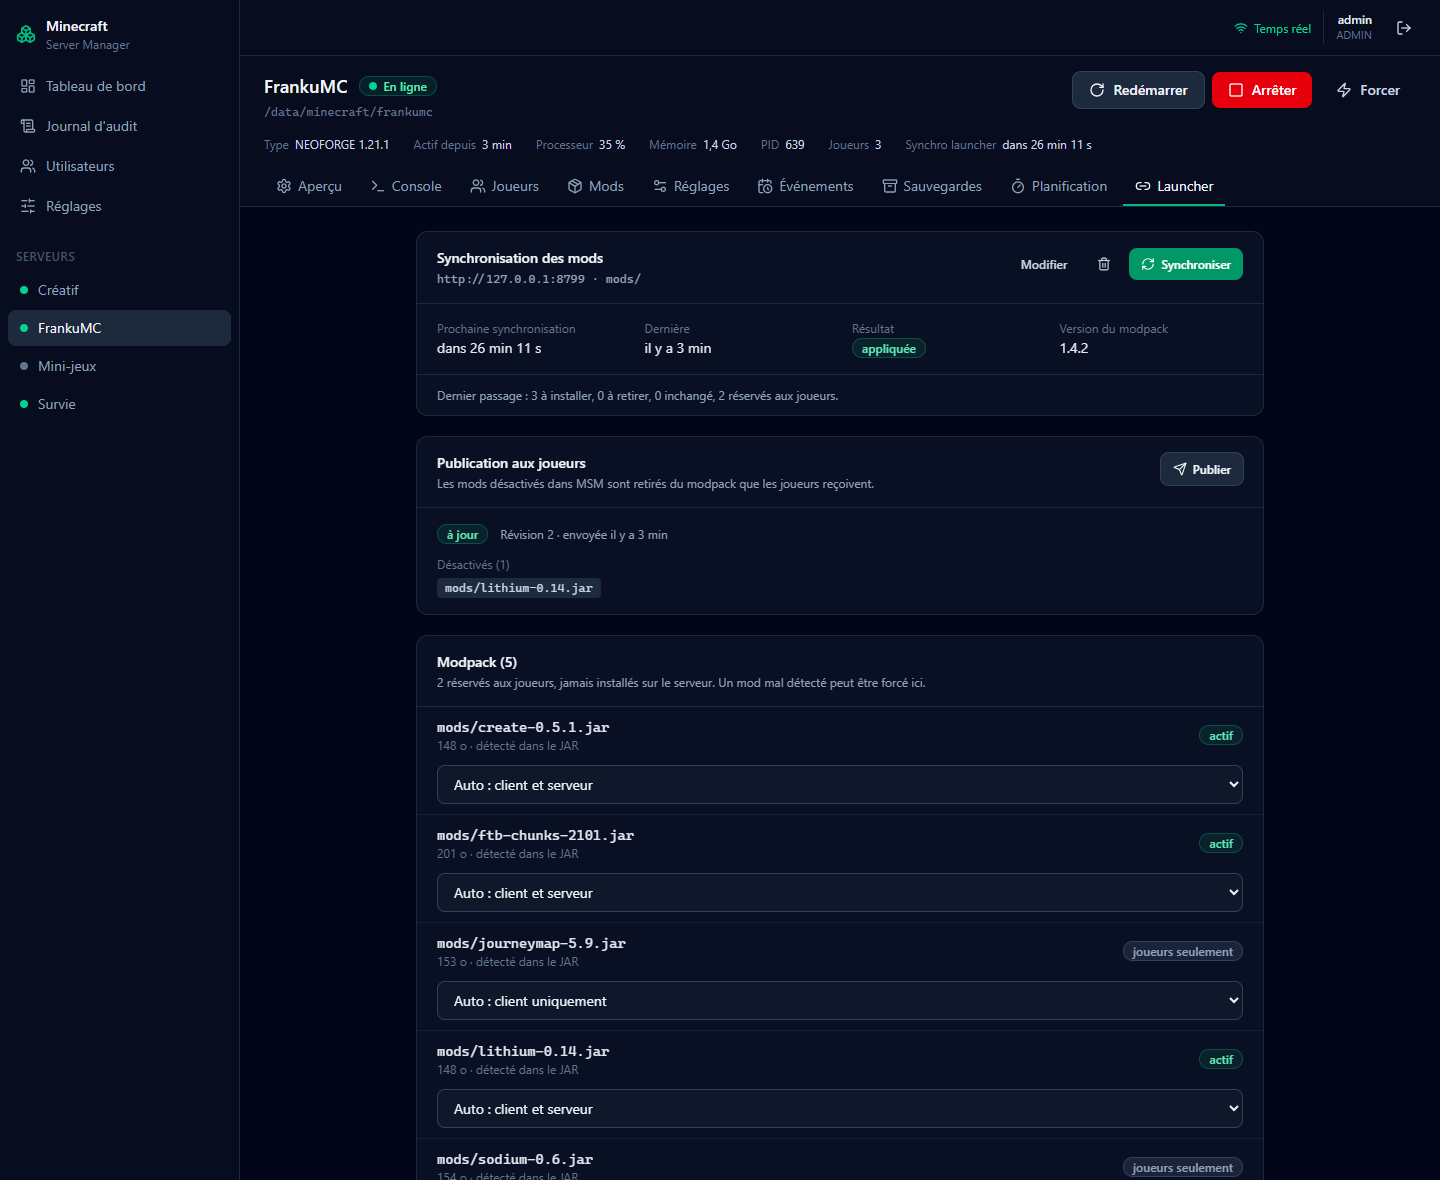
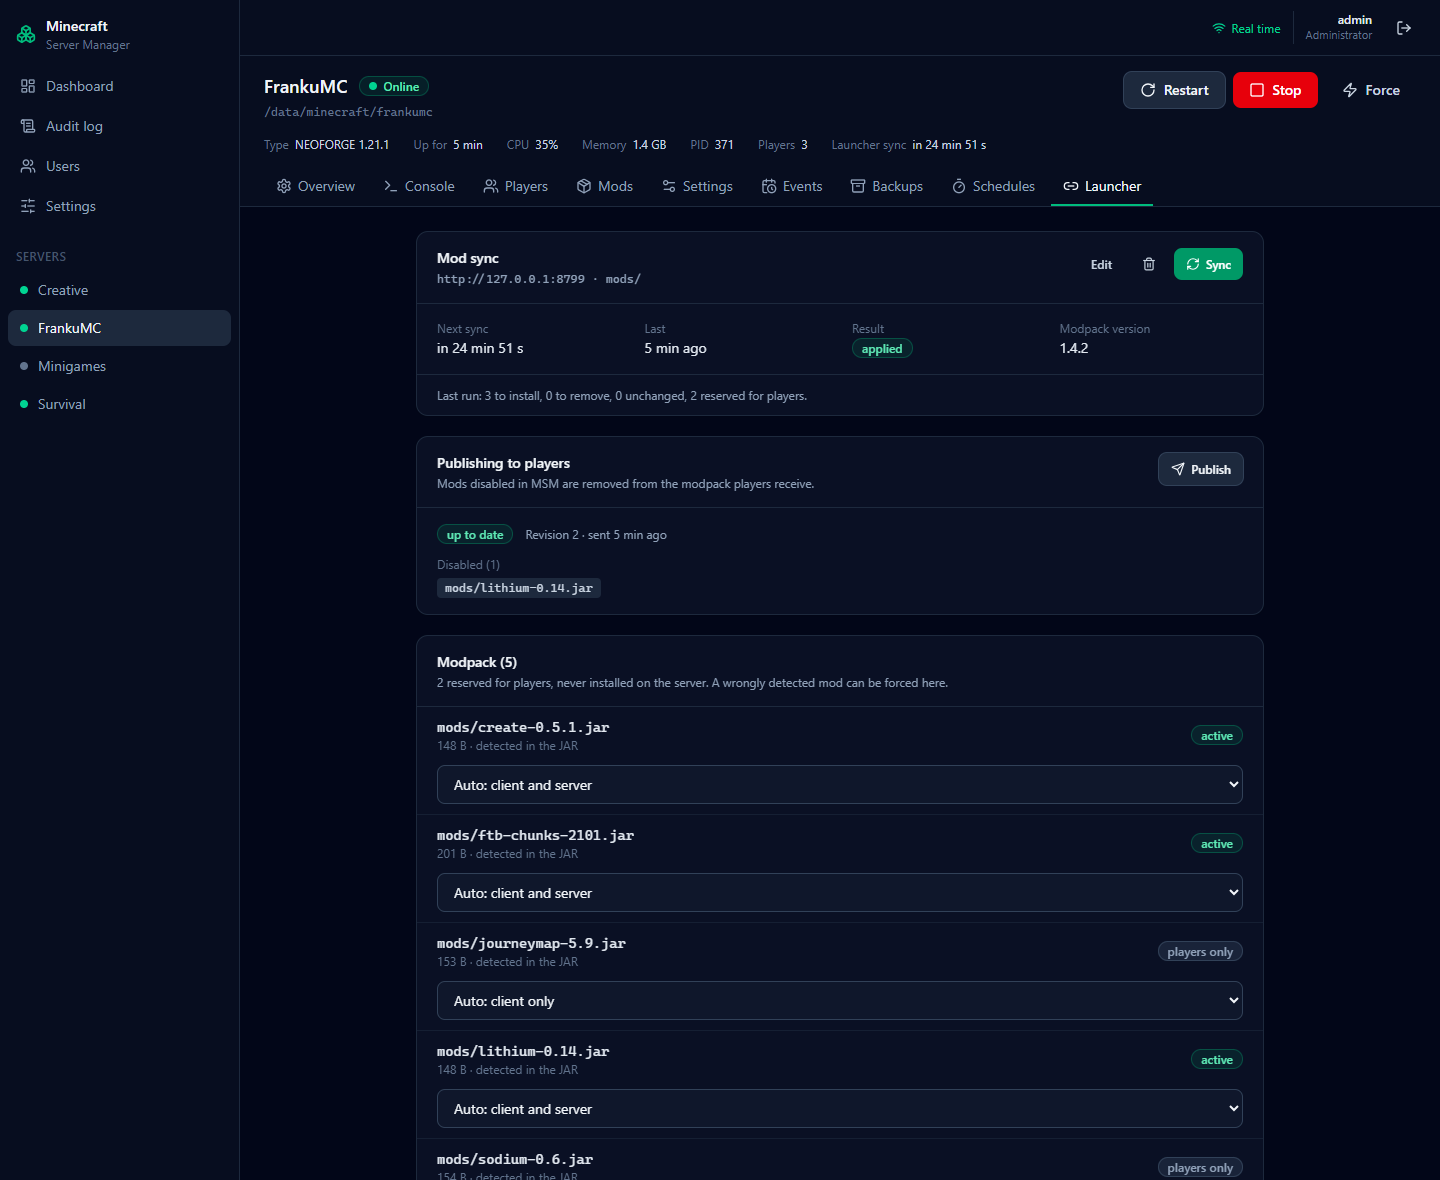
fix(i18n): test POSIX en anglais, dernières chaînes françaises, captures en anglais
- test_launchers : le test du script non exécutable (Linux uniquement,
  donc invisible sous Windows) attendait encore le message français.
- API : suppression d'un événement ou d'un fichier renvoie « deleted »
  comme les autres routes ; libellés de type et journal POSIX en anglais.
- README : captures d'écran refaites avec l'interface en anglais.

diff --git a/backend/tests/unit/test_launchers.py b/backend/tests/unit/test_launchers.py
@@ -138,7 +138,7 @@ class TestShellLauncherPosix:
         with pytest.raises(LaunchError) as excinfo:
             registry.build_spec("shell", context(server_dir, script_path="run.sh"))
 
-        assert "exécutable" in (excinfo.value.cause or "")
+        assert "not executable" in (excinfo.value.cause or "")
         assert excinfo.value.remediation and "chmod +x" in excinfo.value.remediation
 
     def test_executable_script_is_accepted(self, server_dir: Path) -> None:

diff --git a/backend/msm/api/v1/events.py b/backend/msm/api/v1/events.py
@@ -185,7 +185,7 @@ async def delete_event(event_id: int, access: ServerAccess, service: EventsDep) 
     event = await service.get_event(server, event_id)
     name = event.name
     await service.delete_event(server, event, context=context)
-    return {"status": "supprimé", "name": name}
+    return {"status": "deleted", "name": name}
 
 
 # --------------------------------------------------------------------------- #

diff --git a/backend/msm/runtime/backends/posix.py b/backend/msm/runtime/backends/posix.py
@@ -124,7 +124,7 @@ class PosixProcessBackend(ProcessBackend):
         if group_id in (0, os.getpgrp()):
             logger.error(
                 "signal_group_refused",
-                reason="le groupe visé est celui de MSM",
+                reason="target group is MSM's own",
                 group_id=group_id,
                 pid=spawned.pid,
             )

diff --git a/backend/msm/minecraft/types.py b/backend/msm/minecraft/types.py
@@ -46,8 +46,8 @@ _LABELS: dict[ServerType, str] = {
     ServerType.SPIGOT: "Spigot",
     ServerType.BUKKIT: "Bukkit",
     ServerType.PURPUR: "Purpur",
-    ServerType.CUSTOM: "Personnalisé",
-    ServerType.UNKNOWN: "Inconnu",
+    ServerType.CUSTOM: "Custom",
+    ServerType.UNKNOWN: "Unknown",
 }
 
 

diff --git a/backend/msm/api/v1/files.py b/backend/msm/api/v1/files.py
@@ -113,7 +113,7 @@ async def delete_file(
 ) -> dict[str, str]:
     server, context = access
     await service.delete(server, area, name, context=context, ip_address=ip)
-    return {"status": "supprimé", "name": name}
+    return {"status": "deleted", "name": name}
 
 
 @router.post(
